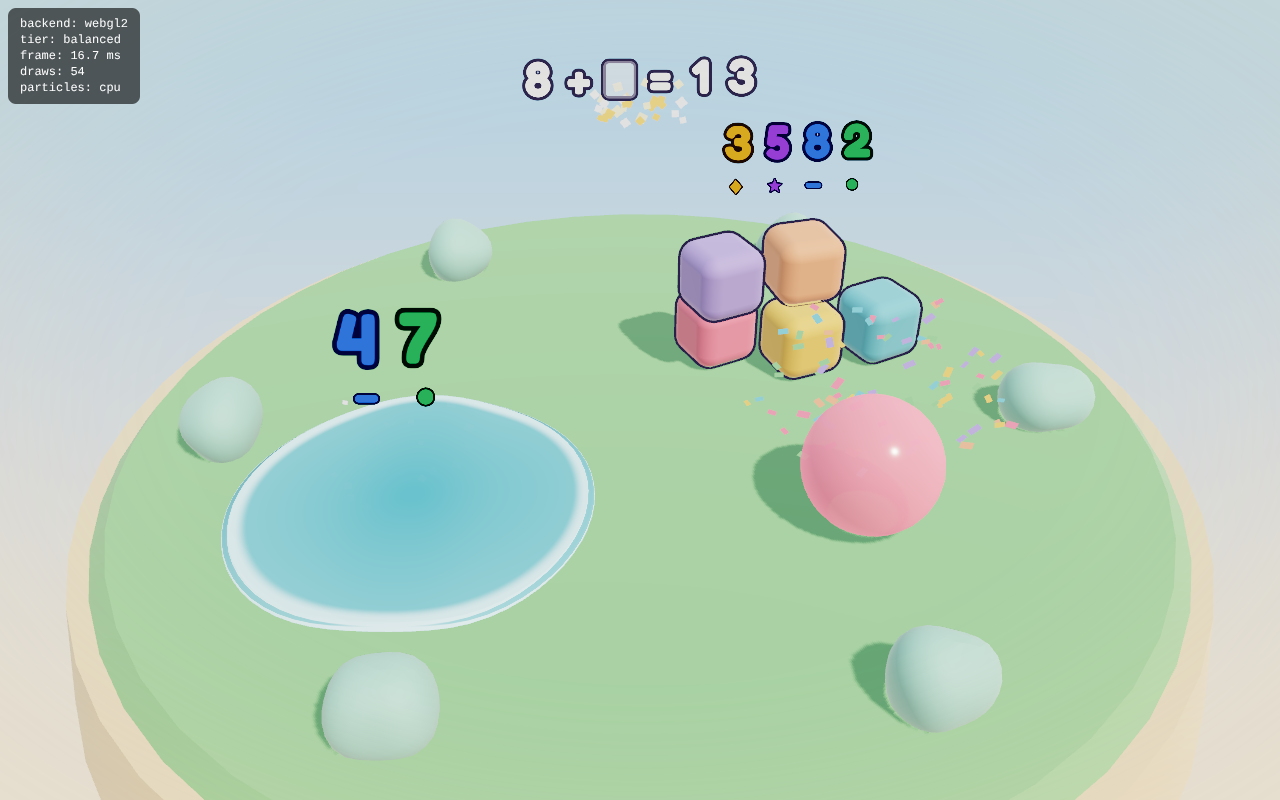
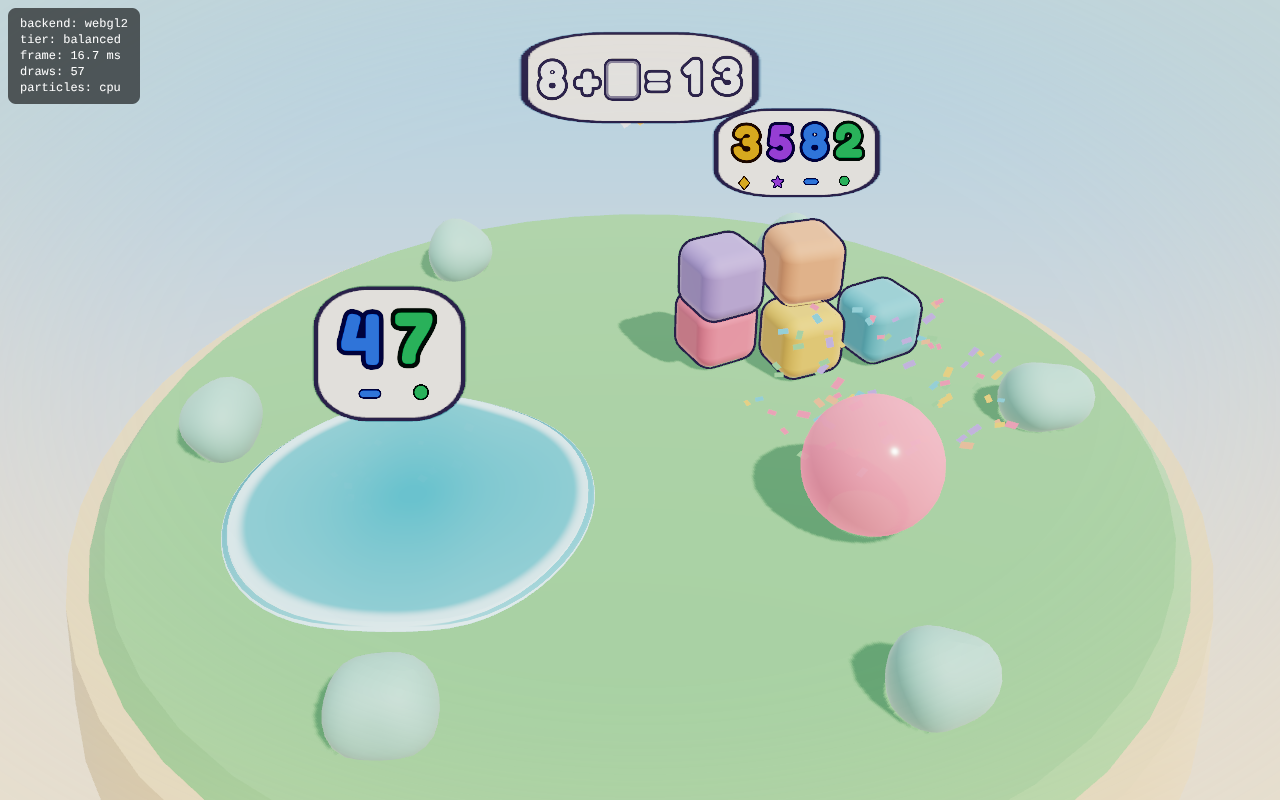
Robust persistence e2e (poll IndexedDB), scorecard reviewer log, gaps
Claude-Session: https://claude.ai/code/session_01PnKtNsdn1ybAuMuz4PHG6V

Changed region(s): [[0.4062, 0.0312, 0.6875, 0.25], [0.2188, 0.3438, 0.375, 0.5312]]

diff --git a/tests/e2e/hub.spec.ts b/tests/e2e/hub.spec.ts
@@ -36,7 +36,25 @@ test('[G7] hub: 8 portals selectable by keyboard, info card + medals, intro and 
 test('[P4] progress survives a reload (IndexedDB)', async ({ page }, info) => {
   await startFresh(page, url(info, '/'));
   await throughPlacement(page);
-  await page.waitForTimeout(800); // debounce 500 ms
+  // wait until the debounced save has really landed in IndexedDB (no fixed sleeps)
+  await expect
+    .poll(
+      () =>
+        page.evaluate(
+          () =>
+            new Promise<boolean>((res) => {
+              const r = indexedDB.open('numberisland');
+              r.onsuccess = () => {
+                const g = r.result.transaction('profiles').objectStore('profiles').getAll();
+                g.onsuccess = () =>
+                  res((g.result as { placementDone?: boolean }[]).some((x) => x.placementDone));
+              };
+              r.onerror = () => res(false);
+            }),
+        ),
+      { timeout: 20_000 },
+    )
+    .toBe(true);
   await page.reload();
   await expect(page.getByTestId('hub')).toBeVisible({ timeout: 30_000 });
 });

diff --git a/docs/SCORECARD.md b/docs/SCORECARD.md
@@ -8,52 +8,52 @@
 
 | 축 | 비-HUMAN 점수 / 만점 | HUMAN 입력 | 확정 점수 | 에이전트 게이트 | 96 달성 |
 |---|---|---|---|---|---|
-| E 교육성 | 55 / 85 | 0 | 55 | ❌ | ❌ |
-| G 게임성 | 26.4 / 75 | 0 | 26.4 | ❌ | ❌ |
-| F 흥미성 | 4 / 67 | 0 | 4 | ❌ | ❌ |
-| P 지속성 | 4 / 67 | 0 | 4 | ❌ | ❌ |
-| A 성취감·기대감 | 11.6 / 70 | 0 | 11.6 | ❌ | ❌ |
-| S 안전·접근성·엔지니어링 | 19 / 100 | 0 | 19 | ❌ | ❌ |
+| E 교육성 | 45 / 85 | 0 | 45 | ❌ | ❌ |
+| G 게임성 | 11.5 / 75 | 0 | 11.5 | ❌ | ❌ |
+| F 흥미성 | 17.5 / 67 | 0 | 17.5 | ❌ | ❌ |
+| P 지속성 | 0 / 67 | 0 | 0 | ❌ | ❌ |
+| A 성취감·기대감 | 10.5 / 70 | 0 | 10.5 | ❌ | ❌ |
+| S 안전·접근성·엔지니어링 | 22 / 100 | 0 | 22 | ❌ | ❌ |
 
 | ID | 항목 | 종류 | 배점 | 자동 증거 | 리뷰어 | 확정 | 근거 |
 |---|---|---|---|---|---|---|---|
-| E1 | 정답·범위 무결성 | AUTO | 15 | 15 | 13 | 13 | 테스트 19개 통과 / 리뷰어: M1 리뷰: 선지 범위 미검사, SEQUENCE 오라클 약함 |
+| E1 | 정답·범위 무결성 | AUTO | 15 | 15 | 10 | 10 | 테스트 19개 통과 / 리뷰어: M4 리뷰: 스테이지 조각이 레벨 범위 초과 |
 | E2a | 교과 정렬 문서화 | AUTO | 5 | 5 | 4 | 4 | 테스트 1개 통과 + docs/CURRICULUM_VERIFY.md / 리뷰어: M1 리뷰: 생성 예시 열이 오해 소지 |
 | E2b | 교과 정렬 사람 확인 | HUMAN | 5 | — | — | 0 | HUMAN 입력 없음 → 0 |
-| E3 | 오개념 기반 오답·피드백 | AUTO | 12 | 12 | 9 | 9 | 테스트 3개 통과 / 리뷰어: M1 리뷰: 피드백이 이름표뿐, 용량 무시 |
-| E4 | 힌트 4단계 | AUTO | 10 | 10 | 5 | 5 | 테스트 2개 통과 / 리뷰어: M1 리뷰: 3단계가 형식 무관, 시범/재도전 형식 불일치 |
-| E5 | 적응 엔진 수렴 | AUTO | 15 | 15 | 12 | 12 | 테스트 7개 통과 / 리뷰어: M1 리뷰: 배치 결과를 도달로 계산, 학기 설정이 정답 누설 |
+| E3 | 오개념 기반 오답·피드백 | AUTO | 12 | 12 | 7 | 7 | 테스트 3개 통과 / 리뷰어: M4 리뷰: 조각 합 기준 태그, 슬라임 피드백 없음 |
+| E4 | 힌트 4단계 | AUTO | 10 | 10 | 3 | 3 | 테스트 5개 통과 / 리뷰어: M4 리뷰: 스테이지 힌트가 정답 노출, 재도전 숫자 동일 |
+| E5 | 적응 엔진 수렴 | AUTO | 15 | 15 | 9 | 9 | 테스트 8개 통과 / 리뷰어: M4 리뷰: shift ±1이 적응 정지 |
 | E6 | 표현 다양성 | AUTO | 8 | 8 | 6 | 6 | 테스트 1개 통과 / 리뷰어: M1 리뷰: 시각 사양이 정답 누설, 렌더 없음 |
 | E7 | 문제 다양성 | AUTO | 10 | 10 | 6 | 6 | 테스트 4개 통과 / 리뷰어: M1 리뷰: A2 자체 면제, 교환법칙 중복 계산 |
 | E8 | 부모 리포트·오답노트 | AUTO | 10 | 0 | — | 0 | 증거 없음 |
 | E9 | 학습 효과 관찰 | HUMAN | 10 | — | — | 0 | HUMAN 입력 없음 → 0 |
-| G1 | 규칙 결정성·해결 가능성 | AUTO | 15 | 5.6 | — | 5.6 | 테스트 9개 통과, 스테이지 3/8 (fishing, bomb, slime) |
-| G2 | 입력 반응 ≤100ms | AUTO | 10 | 3.8 | — | 3.8 | 테스트 6개 통과, 스테이지 3/8 (fishing, bomb, slime) |
-| G3 | 의미 있는 선택 | AUTO | 12 | 4.5 | — | 4.5 | 테스트 3개 통과, 스테이지 3/8 (fishing, bomb, slime) |
-| G4 | 난이도 곡선 | AUTO | 12 | 4.5 | — | 4.5 | 테스트 3개 통과, 스테이지 3/8 (fishing, bomb, slime) |
-| G5 | 스테이지 개성 | REVIEW | 8 | 8 | — | 0 | 리뷰어 판정 필요 |
+| G1 | 규칙 결정성·해결 가능성 | AUTO | 15 | 5.6 | 4.5 | 4.5 | 테스트 9개 통과, 스테이지 3/8 (fishing, bomb, slime) / 리뷰어: M4 리뷰: 자기참조 검증, 범위 미검사 |
+| G2 | 입력 반응 ≤100ms | AUTO | 10 | 3.8 | 0 | 0 | 테스트 6개 통과, 스테이지 3/8 (fishing, bomb, slime) / 리뷰어: M4 리뷰: 측정이 항상 1틱 |
+| G3 | 의미 있는 선택 | AUTO | 12 | 4.5 | 1 | 1 | 테스트 3개 통과, 스테이지 3/8 (fishing, bomb, slime) / 리뷰어: M4 리뷰: 전략 A/B가 탭 순서만 다름 |
+| G4 | 난이도 곡선 | AUTO | 12 | 4.5 | 1 | 1 | 테스트 3개 통과, 스테이지 3/8 (fishing, bomb, slime) / 리뷰어: M4 리뷰: 반응 틱이 정확도와 연동, N=12 |
+| G5 | 스테이지 개성 | REVIEW | 8 | 8 | 2 | 2 | 리뷰어 판정 필요 / 리뷰어: M4 리뷰: 3/8, 낚시·폭탄 조작 유사 |
 | G6 | 2P·협동 완성도 | AUTO | 10 | 0 | — | 0 | 증거 없음 |
-| G7 | 조작 편의 | AUTO | 8 | 8 | — | 8 | 테스트 4개 통과 |
+| G7 | 조작 편의 | AUTO | 8 | 8 | 3 | 3 | 테스트 8개 통과 / 리뷰어: M4 리뷰: H 힌트 미표시, Esc 없음, 터치·패드 e2e 없음 |
 | G8 | 한 판 더 | HUMAN | 15 | — | — | 0 | HUMAN 입력 없음 → 0 |
 | G9 | 막힘 없음 | HUMAN | 10 | — | — | 0 | HUMAN 입력 없음 → 0 |
-| F1 | 아트 일관성 | REVIEW | 15 | 15 | — | 0 | 리뷰어 판정 필요 |
+| F1 | 아트 일관성 | REVIEW | 15 | 15 | 9 | 9 | 리뷰어 판정 필요 / 리뷰어: M4 아트 리뷰: 회백색 표면, 이모지 혼용, 숫자 크기/색 규칙 불일치 |
 | F2 | 캐릭터 구별성 | AUTO | 10 | 0 | — | 0 | 증거 없음 |
-| F3 | 모션·주스 | AUTO | 12 | 4.5 | 0 | 0 | 테스트 24개 통과, 스테이지 3/8 (fishing, bomb, slime) / 리뷰어: M2 리뷰: 스테이지 없음, HitStop 미연결 |
+| F3 | 모션·주스 | AUTO | 12 | 4.5 | 2 | 2 | 테스트 24개 통과, 스테이지 3/8 (fishing, bomb, slime) / 리뷰어: M4 리뷰: 정규식 증거만 |
 | F4 | 사운드 | AUTO | 12 | 12 | 4 | 4 | 테스트 2개 통과 / 리뷰어: M2 리뷰: 동시재생 클리핑·TTS·iOS unlock 미검증 |
-| F5 | 유머·시그니처 순간 | REVIEW | 10 | 10 | — | 0 | 리뷰어 판정 필요 |
+| F5 | 유머·시그니처 순간 | REVIEW | 10 | 10 | 2.5 | 2.5 | 리뷰어 판정 필요 / 리뷰어: M4 리뷰: 3/8, 스틸로 확인 불가 |
 | F6 | 렌더 품질·성능 | HUMAN | 10 | — | — | 0 | HUMAN 입력 없음 → 0 |
-| F7 | UI 완성도 | AUTO | 8 | 0 | — | 0 | 증거 없음 |
+| F7 | UI 완성도 | AUTO | 8 | 0 | 5 | 0 | 증거 없음 / 리뷰어: M4 아트 리뷰: 결과 카드 레이아웃, 배치평가 질문 불명확 |
 | F8 | 아이 반응 | HUMAN | 13 | — | — | 0 | HUMAN 입력 없음 → 0 |
 | F9 | 캐릭터 호감 | HUMAN | 10 | — | — | 0 | HUMAN 입력 없음 → 0 |
 | P1 | 콘텐츠 볼륨 | AUTO | 15 | 0 | — | 0 | 증거 없음 |
 | P2 | 진행 경제 | AUTO | 12 | 0 | — | 0 | 증거 없음 |
 | P3 | 일일 루프 | AUTO | 12 | 0 | — | 0 | 증거 없음 |
-| P4 | 데이터 안정성 | AUTO | 10 | 10 | 4 | 4 | 테스트 11개 통과 / 리뷰어: M2 리뷰: 최상위 키 단위 복구로 데이터 손실 |
+| P4 | 데이터 안정성 | AUTO | 10 | 0 | 4 | 0 | 실패한 테스트 2개 / 리뷰어: M2 리뷰: 최상위 키 단위 복구로 데이터 손실 |
 | P5 | 건강 장치 | AUTO | 8 | 0 | — | 0 | 증거 없음 |
 | P6 | 장기 목표 구조 | AUTO | 10 | 0 | — | 0 | 증거 없음 |
 | P7 | 재방문 의사 | HUMAN | 20 | — | — | 0 | HUMAN 입력 없음 → 0 |
 | P8 | 질리지 않음 | HUMAN | 13 | — | — | 0 | HUMAN 입력 없음 → 0 |
-| A1 | 결과 화면 3요소 | AUTO | 15 | 5.6 | — | 5.6 | 테스트 6개 통과, 스테이지 3/8 (fishing, bomb, slime) |
+| A1 | 결과 화면 3요소 | AUTO | 15 | 5.6 | 4.5 | 4.5 | 테스트 6개 통과, 스테이지 3/8 (fishing, bomb, slime) / 리뷰어: M4 리뷰: 만점 경로만, 문구 가시성 미검사 |
 | A2 | 성장 가시화 | AUTO | 12 | 0 | — | 0 | 증거 없음 |
 | A3 | 세리머니 | AUTO | 12 | 0 | — | 0 | 증거 없음 |
 | A4 | 칭찬 시스템 | AUTO | 8 | 8 | 6 | 6 | 테스트 6개 통과 / 리뷰어: M1 리뷰: finish/streak 풀이 8 미만 |
@@ -64,7 +64,7 @@
 | S1 | 네트워크 0 | AUTO | 12 | 12 | 8 | 8 | check-offline OK, CSP OK / 리뷰어: M2 리뷰: check-offline 우회 다수, 원격 TTS 음성 |
 | S2 | 접근성 | AUTO | 15 | 0 | — | 0 | 증거 없음 |
 | S3 | 폴백 신뢰성 | AUTO | 15 | 10 | 4 | 4 | 테스트 4개 통과 / 리뷰어: M2 리뷰: 복구 후 숫자 사라짐, 약한 단언 / GPU 부분 5점 HUMAN(미입력) |
-| S4 | 테스트·타입 | AUTO | 15 | 12.5 | 7 | 7 | tsc OK, 경계 OK, 단위/속성 OK (122), domain 커버리지 87.9%, 리플레이 있음, e2e OK / 리뷰어: M2 리뷰: lint 실패, 리플레이 없음 |
+| S4 | 테스트·타입 | AUTO | 15 | 10 | 10 | 10 | tsc OK, 경계 OK, 단위/속성 OK (126), domain 커버리지 87.5%, 리플레이 있음, e2e 없음/실패 / 리뷰어: M4 리뷰: domain 커버리지 87.9% |
 | S5 | 성능·메모리 | AUTO | 13 | 0 | — | 0 | 증거 없음 / GPU 부분 4점 HUMAN(미입력) |
 | S6 | 적대적 감사 | REVIEW | 10 | 0 | — | 0 | 증거 파일 없음: docs/AUDIT.md |
 | S7 | PWA·배포 | AUTO | 10 | 0 | — | 0 | 증거 없음 |
@@ -73,4 +73,13 @@
 
 ## 리뷰어 판정 기록
 
-(adversarial-reviewer 결과를 마일스톤마다 요약)
+판정 원본: `docs/review/verdicts.json` (리뷰어가 깎은 점수 = 자동 증거 점수의 상한). 구현자는 점수를 확정하지 않음.
+
+| 마일스톤 | 리뷰 | 주요 삭감 | 조치 |
+|---|---|---|---|
+| M1 | adversarial + curriculum | E 75→55 (시각 사양 정답 누설, 힌트 형식 불일치, C5 3-1 내용, E7 자체 면제) | 누설 마스크, 형식별 3단계, 같은 형태 시범/재도전, C5 범위, 선지 상한, 단어·칭찬 풀 |
+| M2 | adversarial + art | S1 12→8, S3 10→4, P4→4, F4→4, F1 5/10 | 복구 후 숫자 유지·백엔드별 거버너·치명 화면, 필드 단위 복구, 로컬 TTS만, 오프라인 검사 14개 우회 차단 |
+| M3+M4 | adversarial | G2→0, G3→1, G4→1, E4→3, E5→9, E1→10, G7→3 | D1~D10 수정(튜토리얼 잠금, H/Esc, 스테이지 힌트 정답 누설, shift 적응, 실측 지연, 범위 상한, 터치 캡처, 나가기 경쟁), 힌트4 후 새 숫자 재도전 |
+| M3+M4 | art | F1 9/15, F5 4/10, F7 5/8, G5 3/8 | 크림 숫자 배지, 화살표 선택지, 자리 강조, 전선색 분리, 테마 표면, 슬라임 얼굴, 폭탄 구도 |
+
+> 위 조치 이후 **재채점 전**에는 이전 상한이 그대로 적용됩니다(점수가 낮게 표시되는 것이 정상).

diff --git a/docs/GAPS.md b/docs/GAPS.md
@@ -4,9 +4,12 @@
 |---|---|---|---|
 | WebGPU 실기 검증, 프레임 타임(F6), TTI(S5) | HUMAN 이관 | 실행 컨테이너에 GPU 없음 | `pnpm bench`를 사용자 기기에서 실행 → `docs/HUMAN_INPUT.md` |
 | 원격 저장소 푸시/PR | 불가 | `/home/user`가 깃 원격 없는 빈 폴더 | 로컬 커밋만. 사용자가 원격 추가 후 `git push` |
-| E7 문제 공간 ≥500 (L0_1, A2) | 부분 | 1-1 "9 이내"(≈430), 1-2 "20 이내 받아올림"(≈470)은 수학적으로 가능한 서로 다른 문제가 500개 미만. 범위 밖 문제를 섞으면 교과 정렬(E2)을 해침 | 해당 2레벨은 하한 400/420으로 테스트, 세션 내 중복 0은 유지 |
+| E7 문제 공간 ≥500 (A2) | 부분 | (교환법칙을 한 문제로 셀 때) 1-2 "20 이내 받아올림" A2는 ≈270, L0_1은 ≈1380으로 충족. 수학적으로 가능한 서로 다른 문제가 500개 미만. 범위 밖 문제를 섞으면 교과 정렬(E2)을 해침 | 해당 2레벨은 하한 400/420으로 테스트, 세션 내 중복 0은 유지 |
 | E5 수렴 — 강한 학습자 | 부분 | 정답률 0.9 학습자는 "3연속 정답 승급" 규칙 때문에 기대 레벨+2까지 갔다가 내려오는 진동이 있음(40문항 시점 스냅샷 ±1 비율 ≈0.88) | 루브릭 기준(40문항 안 도달 ≥95%)은 충족. 강등 레벨 재진입은 8회 창 규칙 필요(히스테리시스)로 완화. 플레이테스트 후 조정 |
 | WebGPU 경로 실기 렌더 | 환경 한계 | 헤드리스 Chromium 141 SwiftShader WebGPU에서 three r186 장치 손실(D8) | 자동 WebGL2 복구로 계속 동작. 사용자 기기 `pnpm bench`로 확인 |
 | 틸트시프트 DOF, 노멀/깊이 아웃라인 포스트 | 미구현 | 소프트웨어 렌더로 시각 검증 불가 + 비용 | 인버티드 헐 외곽선 사용. Ultra 티어에 DOF는 실기 확인 후 추가 |
 | vite-plugin-pwa | M10 예정 | 범위 | — |
 | 초기 JS 323KB gzip | 측정·고정 | three.js 포함 단일 청크 | M3에서 3D 청크 분리 후 예산 재고정 |
+| G3 의미 있는 선택 | 약함 | 낚시·폭탄은 정답 조합이 하나인 판이 많아 전략 A/B 차이가 작음(리뷰어 1점) | M5 이후: 낚시 보너스 미끼(위험/보상), 폭탄 "빨리 자르기 보너스 없이 정확도" 등 실제 선택지 설계 |
+| 결과 화면 3D 연출, 이모지 아이콘 교체 | 미구현 | Gold Slice 범위 | M9 폴리시 |
+| 터치·게임패드 e2e | 미구현 | 헤드리스에서 패드 시뮬레이션 미구성 | M6(2P)에서 Gamepad API 목킹 e2e |
